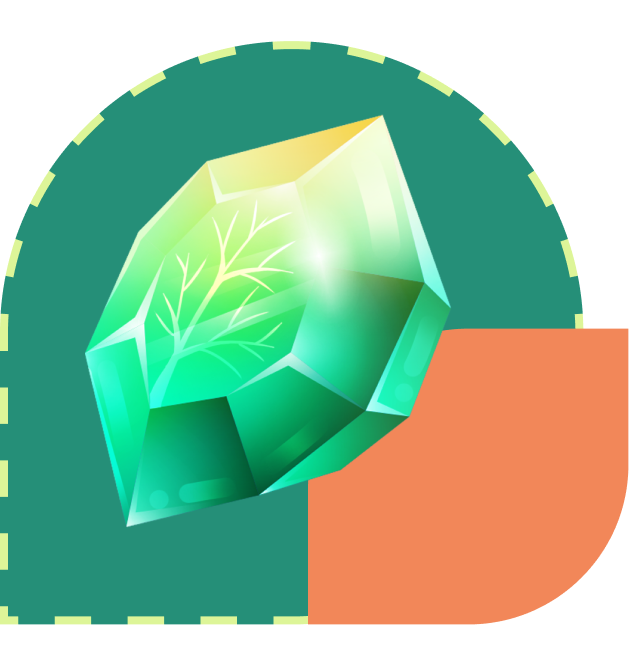
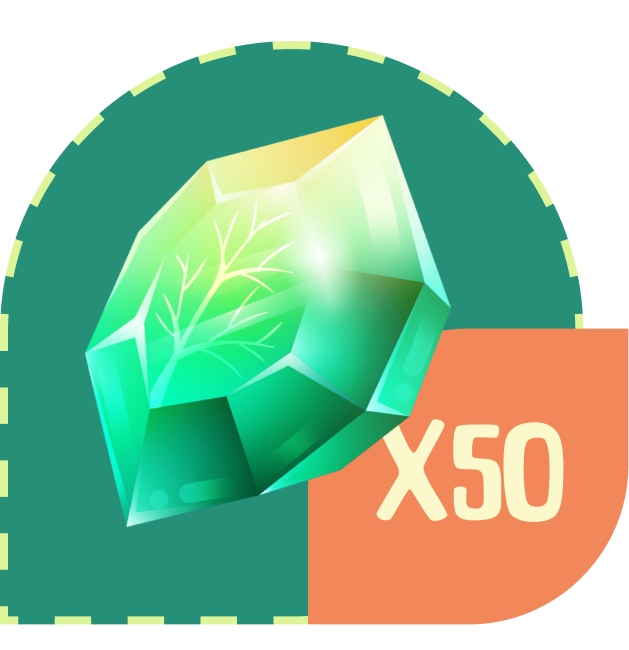
Refactor feedback handling and popups for improved user experience
- Updated GetUserProfileResponse to replace 'hasFeedBack' with 'isReported' for better clarity on user feedback status.
- Enhanced FeedbackPopup to validate feedback length and provide user feedback via Toast notifications.
- Modified ReceivedDiamondPopup to improve user messaging and interaction.
- Integrated new API endpoint for report submissions.
- Refactored PopupModalGlobalProvider to manage popup visibility based on user feedback status more effectively.

Changed region(s): [[0.6041, 0.6462, 0.9062, 0.8]]

diff --git a/src/core/components/popup/FeedbackPopup.tsx b/src/core/components/popup/FeedbackPopup.tsx
@@ -17,10 +17,21 @@ import IconNormal from 'assets/svg/IconNormal';
 import IconSad from 'assets/svg/IconSad';
 import {assets} from 'src/core/presentation/utils';
 import useAuthenticationStore from 'src/authentication/presentation/stores/useAuthenticationStore';
+import Toast from 'react-native-toast-message';
+import {scale} from 'react-native-size-matters';
+import useGlobalStyle from 'src/core/presentation/hooks/useGlobalStyle';
+import {TouchableWithoutFeedback} from 'react-native-gesture-handler';
+import {useLoadingGlobal} from 'src/core/presentation/hooks/loading/useLoadingGlobal';
 
 interface FeedbackPopupProps {
   isVisible: boolean;
-  onClose: () => void;
+  onClose: ({
+    isShowFeedBack,
+    isShowReceived,
+  }: {
+    isShowFeedBack: boolean;
+    isShowReceived: boolean;
+  }) => void;
 }
 
 const FeedbackPopup: React.FC<FeedbackPopupProps> = ({isVisible, onClose}) => {
@@ -35,11 +46,13 @@ const FeedbackPopup: React.FC<FeedbackPopupProps> = ({isVisible, onClose}) => {
   const [feedback, setFeedback] = useState('');
   const [selectedIcon, setSelectedIcon] = useState<string | null>(icons[4]?.id);
 
+  const globalStyle = useGlobalStyle();
   const {handlePostReport} = useAuthenticationStore();
-
+  const loading = useLoadingGlobal();
   const onSent = useCallback(async () => {
-    if (feedback.trim().length > 0 && selectedIcon) {
+    if (feedback.trim().length > 10 && selectedIcon) {
       try {
+        loading.toggleLoading(true, 'LoadingFeedback');
         const params = {
           content: feedback,
           react: selectedIcon,
@@ -47,12 +60,27 @@ const FeedbackPopup: React.FC<FeedbackPopupProps> = ({isVisible, onClose}) => {
         };
         const res = await handlePostReport(params);
         if (res) {
-          onClose();
+          onClose({isShowFeedBack: false, isShowReceived: true});
         }
       } catch (error) {
         console.log('post report fail: ', error);
+        Toast.show({
+          type: 'error',
+          text1: 'Error',
+          text2: 'Gửi phản hồi thất bại',
+        });
+      } finally {
+        loading.toggleLoading(false, 'LoadingFeedback');
       }
+    } else {
+      Toast.show({
+        type: 'error',
+        text1: 'Error',
+        text2:
+          'content need to be more than 10 characters long and icon need to be selected',
+      });
     }
+    // eslint-disable-next-line react-hooks/exhaustive-deps
   }, [feedback, handlePostReport, onClose, selectedIcon]);
 
   return (
@@ -60,19 +88,30 @@ const FeedbackPopup: React.FC<FeedbackPopupProps> = ({isVisible, onClose}) => {
       animationType="slide"
       transparent={true}
       visible={isVisible}
-      onRequestClose={onClose}>
+      style={{height: 500, width: '100%'}}
+      onRequestClose={() =>
+        onClose({isShowFeedBack: false, isShowReceived: false})
+      }>
       <TouchableOpacity
         activeOpacity={1}
-        onPress={onClose}
-        style={styles.centeredView}>
-        <View style={styles.contentContainer}>
+        onPress={() => {
+          onClose({isShowFeedBack: false, isShowReceived: false});
+        }}
+        style={styles.centeredView}
+      />
+      <View style={styles.contentContainer}>
+        <TouchableWithoutFeedback onPress={() => null}>
           <View style={{marginTop: 80}}>
             <Text style={styles.title}>
-              phản hồi ý kiến của bạn{'\n'} để nhận
-              <Text style={{color: COLORS.RED_F28759}}>
-                {' '}
-                miễn phí 50 kim cươngs
-              </Text>
+              SEND US YOUR FEEDBACK{'\n'}AND RECEIVE
+              <Text style={{color: COLORS.RED_F28759}}> 50 DIAMONDS FREE</Text>
+            </Text>
+            <Text
+              style={[
+                globalStyle.txtNote,
+                {fontStyle: 'italic', color: COLORS.YELLOW_F2B559},
+              ]}>
+              * Comment need to be more than 10 characters long
             </Text>
             <TextInput
               placeholder="App dùng ổn :3"
@@ -92,18 +131,18 @@ const FeedbackPopup: React.FC<FeedbackPopupProps> = ({isVisible, onClose}) => {
               })}
             </View>
             <TouchableOpacity style={styles.sentBtnContainer} onPress={onSent}>
-              <Text style={styles.btnTitle}>Gửi</Text>
+              <Text style={styles.btnTitle}>Send</Text>
             </TouchableOpacity>
           </View>
-          <View style={styles.wrapImageContainer}>
-            <Image
-              source={assets.feedbackImage}
-              resizeMode="contain"
-              style={{height: '100%', width: '100%'}}
-            />
-          </View>
+        </TouchableWithoutFeedback>
+        <View style={styles.wrapImageContainer}>
+          <Image
+            source={assets.feedbackImage}
+            resizeMode="contain"
+            style={{height: '100%', width: '100%'}}
+          />
         </View>
-      </TouchableOpacity>
+      </View>
     </Modal>
   );
 };
@@ -114,13 +153,17 @@ const styles = StyleSheet.create({
     justifyContent: 'center',
     alignItems: 'center',
     backgroundColor: 'rgba(0, 0, 0, 0.5)',
-    padding: 32,
+    padding: scale(32),
   },
   contentContainer: {
     borderRadius: 32,
-    padding: 16,
+    padding: scale(16),
     backgroundColor: COLORS.WHITE_FBF8CC,
-    width: '100%',
+    width: '90%',
+    zIndex: 999,
+    position: 'absolute',
+    alignSelf: 'center',
+    top: '20%',
   },
   title: {
     textAlign: 'center',
@@ -130,12 +173,14 @@ const styles = StyleSheet.create({
     color: COLORS.GREEN_4CB572,
   },
   textInputContainer: {
-    borderRadius: 16,
+    borderRadius: scale(16),
     backgroundColor: COLORS.GREEN_DDF598,
-    paddingVertical: 24,
-    paddingHorizontal: 16,
-    marginVertical: 24,
-    minHeight: 108,
+    paddingVertical: scale(8),
+    paddingHorizontal: scale(16),
+    marginBottom: scale(24),
+    marginTop: scale(5),
+    minHeight: scale(108),
+    textAlignVertical: 'top',
   },
   iconContainer: {
     flexDirection: 'row',

diff --git a/src/core/components/popup/ReceivedDiamondPopup.tsx b/src/core/components/popup/ReceivedDiamondPopup.tsx
@@ -11,21 +11,22 @@ import PropTypes from 'prop-types';
 import {COLORS} from 'src/core/presentation/constants/colors';
 import {TYPOGRAPHY} from 'src/core/presentation/constants/typography';
 import {assets} from 'src/core/presentation/utils';
+import { scale } from 'react-native-size-matters';
 
 const ReceivedDiamondPopup = ({
   isVisible,
   onClose,
 }: {
   isVisible: boolean;
-  onClose: () => void;
+  onClose: ({isShowFeedBack, isShowReceived} : {isShowFeedBack: boolean, isShowReceived: boolean}) => void;
 }) => {
   return (
     <Modal
       animationType="slide"
       transparent={true}
       visible={isVisible}
-      onRequestClose={onClose}>
-      <View style={styles.centeredView}>
+      onRequestClose={() => onClose({isShowFeedBack: false, isShowReceived: false})}>
+      <TouchableOpacity activeOpacity={1} onPress={() => onClose({isShowFeedBack: false, isShowReceived: false})} style={styles.centeredView}>
         <View style={styles.modalView}>
           <View style={styles.wrapImageContainer}>
             <Image
@@ -34,19 +35,22 @@ const ReceivedDiamondPopup = ({
             />
           </View>
           <View style={{marginTop: 50}}>
-            <Text style={styles.title}>bạn đã nhận được{'\n'}50 kim cương</Text>
+            <Text style={styles.title}>YOU GOT{'\n'}50 DIAMONDS</Text>
             <Text
               style={{
                 fontFamily: TYPOGRAPHY.FAMILY.SVNNeuzeitRegular,
+                textAlign: 'center',
+                color: COLORS.BLUE_1C6349
               }}>
-              Cảm ơn bạn đã phản hồi ý kiến.{'\n'}Bạn đã nhận được 50 kim cương
+              Thank you for your feedback.
+              You received 50 diamonds.
             </Text>
-            <TouchableOpacity style={styles.sentBtnContainer} onPress={onClose}>
-              <Text style={styles.btnTitle}>Đóng</Text>
+            <TouchableOpacity style={styles.sentBtnContainer} onPress={() => onClose({isShowFeedBack: false, isShowReceived: false})}>
+              <Text style={styles.btnTitle}>Close</Text>
             </TouchableOpacity>
           </View>
         </View>
-      </View>
+      </TouchableOpacity>
     </Modal>
   );
 };
@@ -62,14 +66,14 @@ const styles = StyleSheet.create({
     justifyContent: 'center',
     alignItems: 'center',
     backgroundColor: 'rgba(0, 0, 0, 0.5)', // Semi-transparent background
-    paddingHorizontal: 32,
+    paddingHorizontal: scale(32),
   },
   modalView: {
-    margin: 20,
+    margin: scale(20),
     width: '100%',
     backgroundColor: COLORS.WHITE_FBF8CC,
-    borderRadius: 20,
-    padding: 35,
+    borderRadius: scale(20),
+    padding: scale(35),
     alignItems: 'center',
     shadowColor: '#000',
     shadowOffset: {
@@ -81,9 +85,9 @@ const styles = StyleSheet.create({
     elevation: 5,
   },
   diamondImage: {
-    width: 150, // Adjust size as needed
-    height: 150, // Adjust size as needed
-    marginBottom: 20,
+    width: scale(150), // Adjust size as needed
+    height: scale(150), // Adjust size as needed
+    marginBottom: scale(20),
   },
   modalText: {
     marginBottom: 15,

diff --git a/src/core/presentation/hooks/popup/PopupModalGlobalProvider.tsx b/src/core/presentation/hooks/popup/PopupModalGlobalProvider.tsx
@@ -26,43 +26,53 @@ export const PopupModalContext = createContext<PopupModalContextType>({
 });
 
 // Define the provider component
-export const PopupModalGlobalProvider = ({children}: PropsWithChildren) => {
-  const [isShown, setIsShown] = useState(false);
-  const [popupState, setPopupState] = useStateCustom({
-    isShowFeedBack: true,
-    isShowReceived: false,
-  });
-  const {userProfile} = useAuthenticationStore();
+export const PopupModalGlobalProvider = observer(
+  ({children}: PropsWithChildren) => {
+    const [isShown, setIsShown] = useState(false);
+    const [popupState, setPopupState] = useStateCustom({
+      isShowFeedBack: false,
+      isShowReceived: false,
+    });
+    const {userProfile} = useAuthenticationStore();
 
-  const show = useCallback(() => {
-    setIsShown(true);
-  }, []);
+    const show = useCallback(() => {
+      setIsShown(true);
+    }, []);
 
-  const hide = useCallback(() => {
-    setIsShown(false);
-  }, []);
+    const hide = useCallback(() => {
+      setIsShown(false);
+    }, []);
 
-  const onShowReceived = useCallback(() => {
-    setPopupState({isShowFeedBack: false, isShowReceived: true});
-  }, [setPopupState]);
+    const onShowReceived = useCallback(
+      ({isShowFeedBack, isShowReceived}) => {
+        setPopupState({isShowFeedBack, isShowReceived});
+      },
+      [setPopupState],
+    );
 
-  useEffect(() => {
-    if (userProfile) {
-      setIsShown(!userProfile?.hasFeedBack);
-    }
-  }, [userProfile]);
-  return (
-    <PopupModalContext.Provider value={{show, hide, isShown}}>
-      {children}
-      <ReceivedDiamondPopup
-        isVisible={popupState.isShowReceived}
-        onClose={hide}
-      />
-      <FeedbackPopup
-        isVisible={popupState.isShowFeedBack}
-        onClose={onShowReceived}
-      />
-      {/* Optionally, you can include the modal component here if it should be global */}
-    </PopupModalContext.Provider>
-  );
-};
+    useEffect(() => {
+      if (userProfile) {
+        setPopupState({
+          isShowFeedBack: !userProfile?.isReported,
+          isShowReceived: false,
+        });
+      }
+    }, [setPopupState, userProfile]);
+    return (
+      <PopupModalContext.Provider value={{show, hide, isShown}}>
+        {children}
+        <ReceivedDiamondPopup
+          isVisible={popupState.isShowReceived}
+          onClose={({isShowFeedBack, isShowReceived}) => {
+            setPopupState({isShowFeedBack, isShowReceived});
+          }}
+        />
+        <FeedbackPopup
+          isVisible={popupState.isShowFeedBack}
+          onClose={onShowReceived}
+        />
+        {/* Optionally, you can include the modal component here if it should be global */}
+      </PopupModalContext.Provider>
+    );
+  },
+);

diff --git a/src/core/presentation/constants/apiEndpoints.ts b/src/core/presentation/constants/apiEndpoints.ts
@@ -10,10 +10,15 @@ const SERVICES = {
   LOGGING: '/logging',
   VERIFY_GOOGLE_PAYMENT: '/google-api/verify',
   PRODUCT: '/product',
+  REPORT: '/report',
 };
 
 const getProduct = () => {
   return `/api${API_VERSION}${SERVICES.PRODUCT}`;
+};
+
+const getReport = () => {
+  return `/api${API_VERSION}${SERVICES.REPORT}`;
 };
 
 const getLoggingEndPointServices = () => {
@@ -109,5 +114,8 @@ export const API_ENDPOINTS = {
   },
   GET_PRODUCT: {
     PRODUCT: getProduct(),
+  },
+  REPORT: {
+    POST_REPORT: getReport(),
   },
 };

diff --git a/src/authentication/application/types/GetUserProfileResponse.ts b/src/authentication/application/types/GetUserProfileResponse.ts
@@ -25,7 +25,7 @@ export interface data {
   updatedAt: string;
   children: children[];
   diamond: number;
-  hasFeedBack: boolean;
+  isReported: boolean;
 }
 
 export default interface GetUserProfileResponse {
